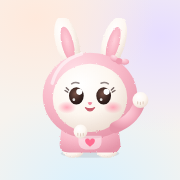
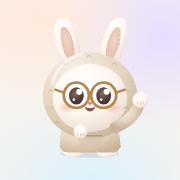
Pip: a cozy, clever look instead of pink and bows
Oatmeal knit hood with ears, round gold glasses, warm muted colours; no
pink hoodie, bow, heart or lashes. New app icons.

Claude-Session: https://claude.ai/code/session_01BZ79fqEpvmtLEfW6xPypjC

Changed region(s): [[0.2222, 0.3056, 0.8056, 0.8611], [0.4722, 0.3056, 0.5, 0.3333]]

diff --git a/public/pip.js b/public/pip.js
@@ -1,6 +1,6 @@
-// Pip, the Pocket Box mascot: a round, fluffy little bunny in a pink hoodie
-// with a heart pocket and a bow on one ear. Drawn in SVG with soft shading
-// and fuzzy fur so it stays crisp at any size.
+// Pip, the Pocket Box mascot: a round, fluffy little bunny in an oatmeal
+// knit hood with round glasses — a cozy, clever helper. Drawn in SVG with
+// soft shading and fuzzy fur so it stays crisp at any size.
 // Pip.svg(mood, size) returns inline SVG. Moods: hi (waving), happy, think,
 // sleep, wow, idle. Animation lives in CSS (.pip ...).
 (function (root) {
@@ -22,13 +22,12 @@
           <ellipse cx="73" cy="${ey}" rx="${ew}" ry="${eh}" fill="url(#${k}e)" stroke="none"/>
           <circle cx="49.8" cy="${ey - 3.8}" r="2.9" fill="#fff" stroke="none"/><circle cx="75.8" cy="${ey - 3.8}" r="2.9" fill="#fff" stroke="none"/>
           <circle cx="44.6" cy="${ey + 3.6}" r="1.3" fill="#fff" opacity=".85" stroke="none"/><circle cx="70.6" cy="${ey + 3.6}" r="1.3" fill="#fff" opacity=".85" stroke="none"/>
-          <path d="M38.8 ${ey - 3.5} l-2.6 -1.6 M39.6 ${ey - 5.6} l-2.2 -2.2" stroke-width="1.3" opacity=".7"/><path d="M81.2 ${ey - 3.5} l2.6 -1.6 M80.4 ${ey - 5.6} l2.2 -2.2" stroke-width="1.3" opacity=".7"/>
         </g>`;
     const brows = `<path d="M42.5 62.5 Q46 60.4 49.5 62" stroke-width="1.4" opacity=".55"/><path d="M70.5 62 Q74 60.4 77.5 62.5" stroke-width="1.4" opacity=".55"/>`;
     const mouth = {
-      happy: `<path d="M55.2 85.4 Q60 92.6 64.8 85.4 Q60 87.6 55.2 85.4Z" fill="#c75b6b" stroke="#c75b6b" stroke-width="1"/>`,
-      hi: `<path d="M55.6 85.2 Q60 91.6 64.4 85.2 Q60 87.2 55.6 85.2Z" fill="#c75b6b" stroke="#c75b6b" stroke-width="1"/>`,
-      wow: `<ellipse cx="60" cy="87.4" rx="3" ry="3.6" fill="#c75b6b" stroke="none"/>`,
+      happy: `<path d="M55.2 85.4 Q60 92.6 64.8 85.4 Q60 87.6 55.2 85.4Z" fill="#8e4a43" stroke="#8e4a43" stroke-width="1"/>`,
+      hi: `<path d="M55.6 85.2 Q60 91.6 64.4 85.2 Q60 87.2 55.6 85.2Z" fill="#8e4a43" stroke="#8e4a43" stroke-width="1"/>`,
+      wow: `<ellipse cx="60" cy="87.4" rx="3" ry="3.6" fill="#8e4a43" stroke="none"/>`,
       sleep: `<path d="M57.6 86.2 Q60 87.6 62.4 86.2" stroke-width="1.5"/>`,
       think: `<path d="M57 86.6 Q60 85.4 63.4 86.8" stroke-width="1.5"/>`,
     }[mood] || `<path d="M56.2 85 q1.9 2 3.8 0 q1.9 2 3.8 0" stroke-width="1.5"/>`;
@@ -39,18 +38,18 @@
       : mood === 'think' ? `${paw(51, 109)}<path d="M80 108 Q80 100 72 96" stroke="url(#${k}h)" stroke-width="10" fill="none" stroke-linecap="round"/>${paw(70, 95, 6.6)}`
         : `${paw(51, 108)}${paw(69, 108)}`;
     const extra = {
-      sleep: `<g class="pip-z" fill="#b59cf5" font-family="ui-rounded, system-ui, sans-serif" font-weight="800"><text x="92" y="44" font-size="15">z</text><text x="104" y="32" font-size="10">z</text></g>`,
-      think: `<g class="pip-dots" fill="#b59cf5"><circle cx="94" cy="50" r="3"/><circle cx="102" cy="42" r="3.8"/><circle cx="111" cy="33" r="4.6"/></g>`,
+      sleep: `<g class="pip-z" fill="#7d8fb3" font-family="ui-rounded, system-ui, sans-serif" font-weight="800"><text x="92" y="44" font-size="15">z</text><text x="104" y="32" font-size="10">z</text></g>`,
+      think: `<g class="pip-dots" fill="#7d8fb3"><circle cx="94" cy="50" r="3"/><circle cx="102" cy="42" r="3.8"/><circle cx="111" cy="33" r="4.6"/></g>`,
       wow: `<g fill="#ffcf5c"><path d="M12 62 l3 -7 l3 7 l7 3 l-7 3 l-3 7 l-3 -7 l-7 -3z"/><path d="M103 56 l2 -5 l2 5 l5 2 l-5 2 l-2 5 l-2 -5 l-5 -2z"/></g>`,
     }[mood] || '';
     const droop = mood === 'sleep' ? 1 : 0;
     return `<svg class="pip pip-${mood}${still ? ' still' : ''}" width="${size}" height="${Math.round(size * 1.12)}" viewBox="0 0 120 134" role="img" aria-label="Pip">
   <defs>
     <radialGradient id="${k}c" cx=".38" cy=".3" r=".8"><stop offset="0" stop-color="#ffffff"/><stop offset=".55" stop-color="#fdf6ef"/><stop offset="1" stop-color="#e8d7cb"/></radialGradient>
-    <radialGradient id="${k}h" cx=".35" cy=".22" r=".85"><stop offset="0" stop-color="#ffe0e7"/><stop offset=".55" stop-color="#f8b9c8"/><stop offset="1" stop-color="#e595a9"/></radialGradient>
-    <radialGradient id="${k}i" cx=".5" cy=".4" r=".7"><stop offset="0" stop-color="#ffd0da"/><stop offset="1" stop-color="#f3a2b5"/></radialGradient>
+    <radialGradient id="${k}h" cx=".35" cy=".22" r=".85"><stop offset="0" stop-color="#f7efe4"/><stop offset=".55" stop-color="#e6d6c2"/><stop offset="1" stop-color="#c9b398"/></radialGradient>
+    <radialGradient id="${k}i" cx=".5" cy=".4" r=".7"><stop offset="0" stop-color="#f1d6c8"/><stop offset="1" stop-color="#dfb8a6"/></radialGradient>
     <radialGradient id="${k}e" cx=".42" cy=".38" r=".7"><stop offset="0" stop-color="#7a5348"/><stop offset=".55" stop-color="#3e2723"/><stop offset="1" stop-color="#1e1212"/></radialGradient>
-    <radialGradient id="${k}b" cx=".5" cy=".5" r=".5"><stop offset="0" stop-color="#ff8fa8" stop-opacity=".75"/><stop offset="1" stop-color="#ff8fa8" stop-opacity="0"/></radialGradient>
+    <radialGradient id="${k}b" cx=".5" cy=".5" r=".5"><stop offset="0" stop-color="#f29a86" stop-opacity=".5"/><stop offset="1" stop-color="#f29a86" stop-opacity="0"/></radialGradient>
     <filter id="${k}f" x="-10%" y="-10%" width="120%" height="120%"><feTurbulence type="fractalNoise" baseFrequency=".85" numOctaves="2" seed="7" result="t"/><feDisplacementMap in="SourceGraphic" in2="t" scale="2.2" xChannelSelector="R" yChannelSelector="G"/></filter>
   </defs>
   <ellipse cx="60" cy="129" rx="28" ry="4" fill="#3b2626" opacity=".1" class="pip-shadow"/>
@@ -65,12 +64,19 @@
       <ellipse cx="60" cy="74" rx="45" ry="41" fill="url(#${k}h)"/>
       <ellipse cx="60" cy="76" rx="35.5" ry="32.5" fill="url(#${k}c)"/>
     </g>
+    <g stroke="#c4ad91" stroke-width="1.2" fill="none" opacity=".55" stroke-linecap="round"><path d="M21 70 q2 -3 4 0"/><path d="M22 86 q2 -3 4 0"/><path d="M27 100 q2 -3 4 0"/><path d="M93 70 q2 -3 4 0"/><path d="M92 86 q2 -3 4 0"/><path d="M87 100 q2 -3 4 0"/><path d="M33 44 q2 -3 4 0"/><path d="M81 44 q2 -3 4 0"/><path d="M57 37 q2 -3 4 0"/></g>
     <path d="M24 62 Q30 40 52 34" stroke="#fff" stroke-width="3.2" stroke-linecap="round" fill="none" opacity=".55"/>
-    <g class="pip-bow" transform="translate(88 40) rotate(18)"><path d="M0 0 C-10 -9 -14 4 -2 3 Z" fill="url(#${k}h)"/><path d="M0 0 C10 -9 14 4 2 3 Z" fill="url(#${k}h)"/><circle cx="0" cy="1" r="3" fill="#ee9db1"/></g>
-    <g class="pip-pocket"><path d="M49 112 h22 v6 a7 7 0 0 1 -7 7 h-8 a7 7 0 0 1 -7 -7z" fill="#fff" opacity=".45"/><path d="M60 122.4 c-3 -2.1 -4.6 -3.5 -4.6 -5.3 a2.3 2.3 0 0 1 4.6 -0.5 a2.3 2.3 0 0 1 4.6 0.5 c0 1.8 -1.6 3.2 -4.6 5.3z" fill="#ff6f93"/></g>
+    <g class="pip-pocket"><path d="M49 112 h22 v6 a7 7 0 0 1 -7 7 h-8 a7 7 0 0 1 -7 -7z" fill="#d8c5ae" opacity=".7"/><path d="M49 112 h22" stroke="#b39c80" stroke-width="1.6" stroke-linecap="round"/></g>
     <ellipse cx="38" cy="85" rx="9" ry="6" fill="url(#${k}b)"/><ellipse cx="82" cy="85" rx="9" ry="6" fill="url(#${k}b)"/>
     <g stroke="${ink}" stroke-width="2.6" stroke-linecap="round" stroke-linejoin="round" fill="none">${eyes}${brows}${mouth}</g>
-    <path d="M57.8 80.4 Q60 79.2 62.2 80.4 Q61.6 82.6 60 83 Q58.4 82.6 57.8 80.4Z" fill="#f48aa0"/>
+    <path d="M57.8 80.4 Q60 79.2 62.2 80.4 Q61.6 82.6 60 83 Q58.4 82.6 57.8 80.4Z" fill="#d9846f"/>
+    <g class="pip-glasses" fill="none" stroke-linecap="round">
+      <circle cx="47" cy="73.5" r="12" fill="#ffffff" fill-opacity=".12" stroke="#b08a52" stroke-width="2.6"/>
+      <circle cx="73" cy="73.5" r="12" fill="#ffffff" fill-opacity=".12" stroke="#b08a52" stroke-width="2.6"/>
+      <path d="M58.8 72 Q60 70.4 61.2 72" stroke="#b08a52" stroke-width="2.4"/>
+      <path d="M35 71 L27 68" stroke="#b08a52" stroke-width="2.2"/><path d="M85 71 L93 68" stroke="#b08a52" stroke-width="2.2"/>
+      <path d="M39.5 67 Q43 63.4 48 63.6" stroke="#fff" stroke-width="1.8" opacity=".7"/><path d="M65.5 67 Q69 63.4 74 63.6" stroke="#fff" stroke-width="1.8" opacity=".7"/>
+    </g>
     ${paws}
     ${extra}
   </g>

diff --git a/public/sw.js b/public/sw.js
@@ -1,6 +1,6 @@
 // Pocket Box service worker: wake-up and Studio notifications, and an offline
 // copy of the Runtime so agents still run on a plane.
-const CACHE = 'pocket-v4';
+const CACHE = 'pocket-v5';
 const SHELL = ['/', '/runtime', '/app.js', '/app.css', '/runtime.js', '/pip.js', '/agent-worker.js', '/agent-core.js', '/icon.svg', '/icon-180.png', '/icon-192.png', '/manifest.webmanifest'];
 
 self.addEventListener('install', (e) => {
